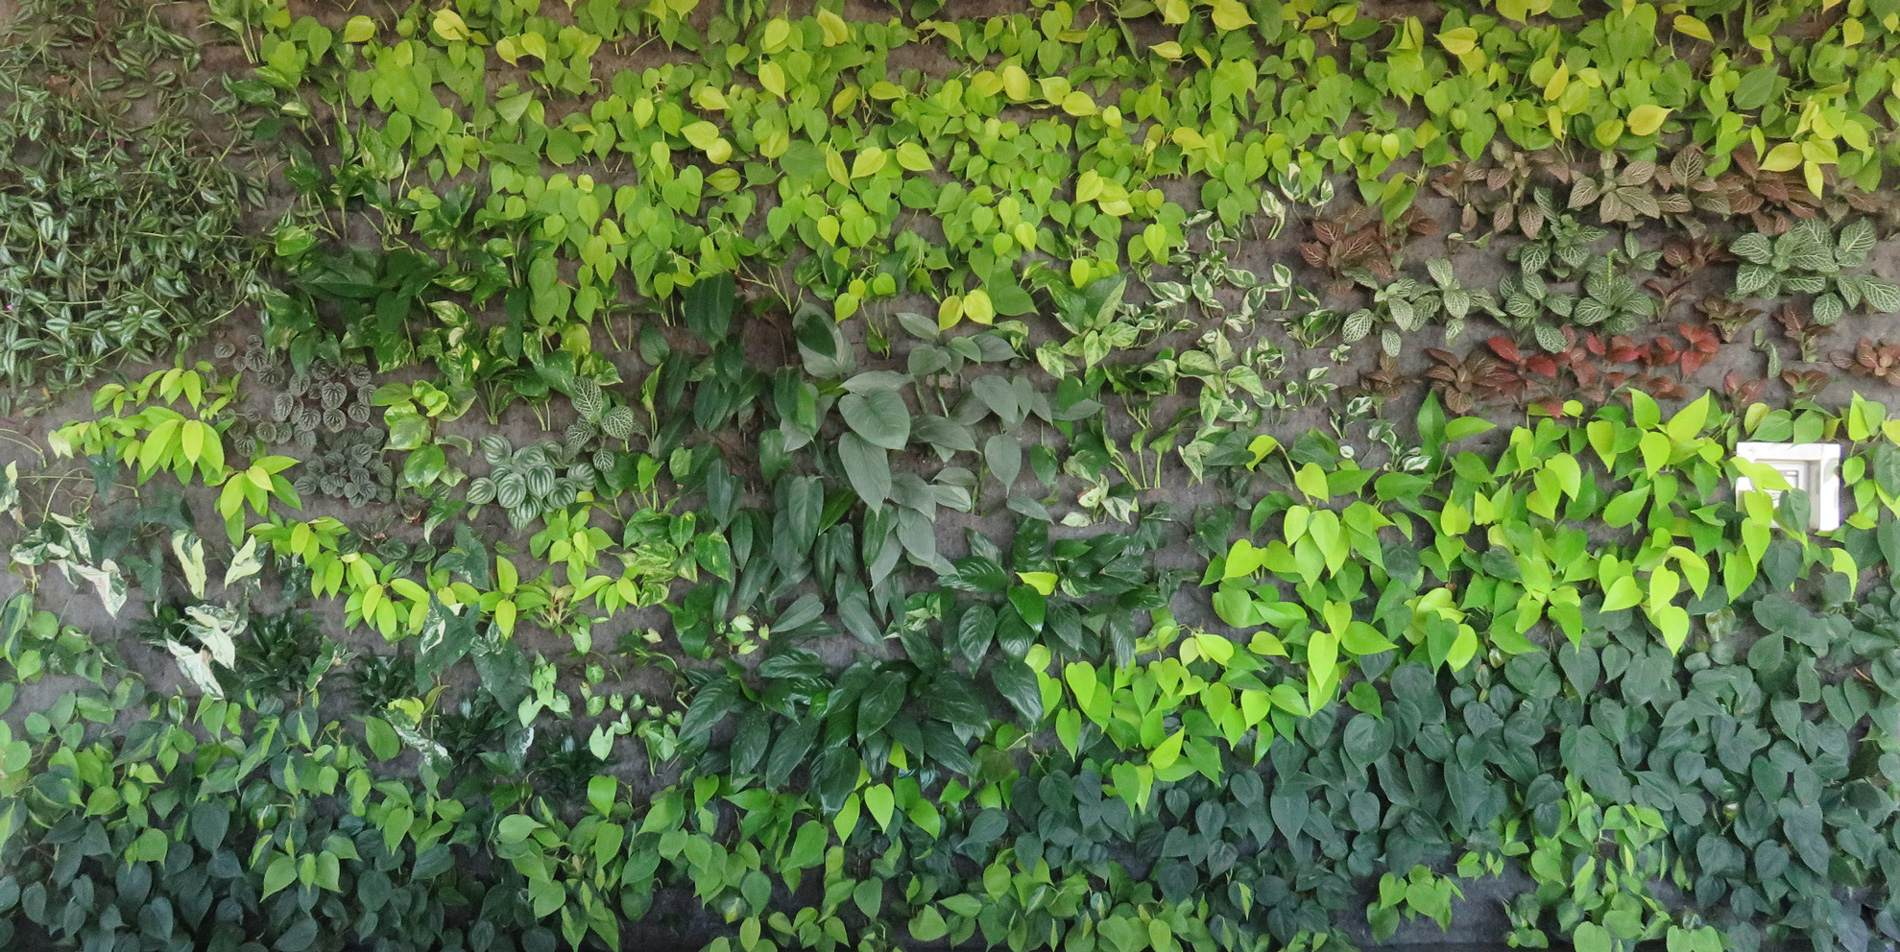
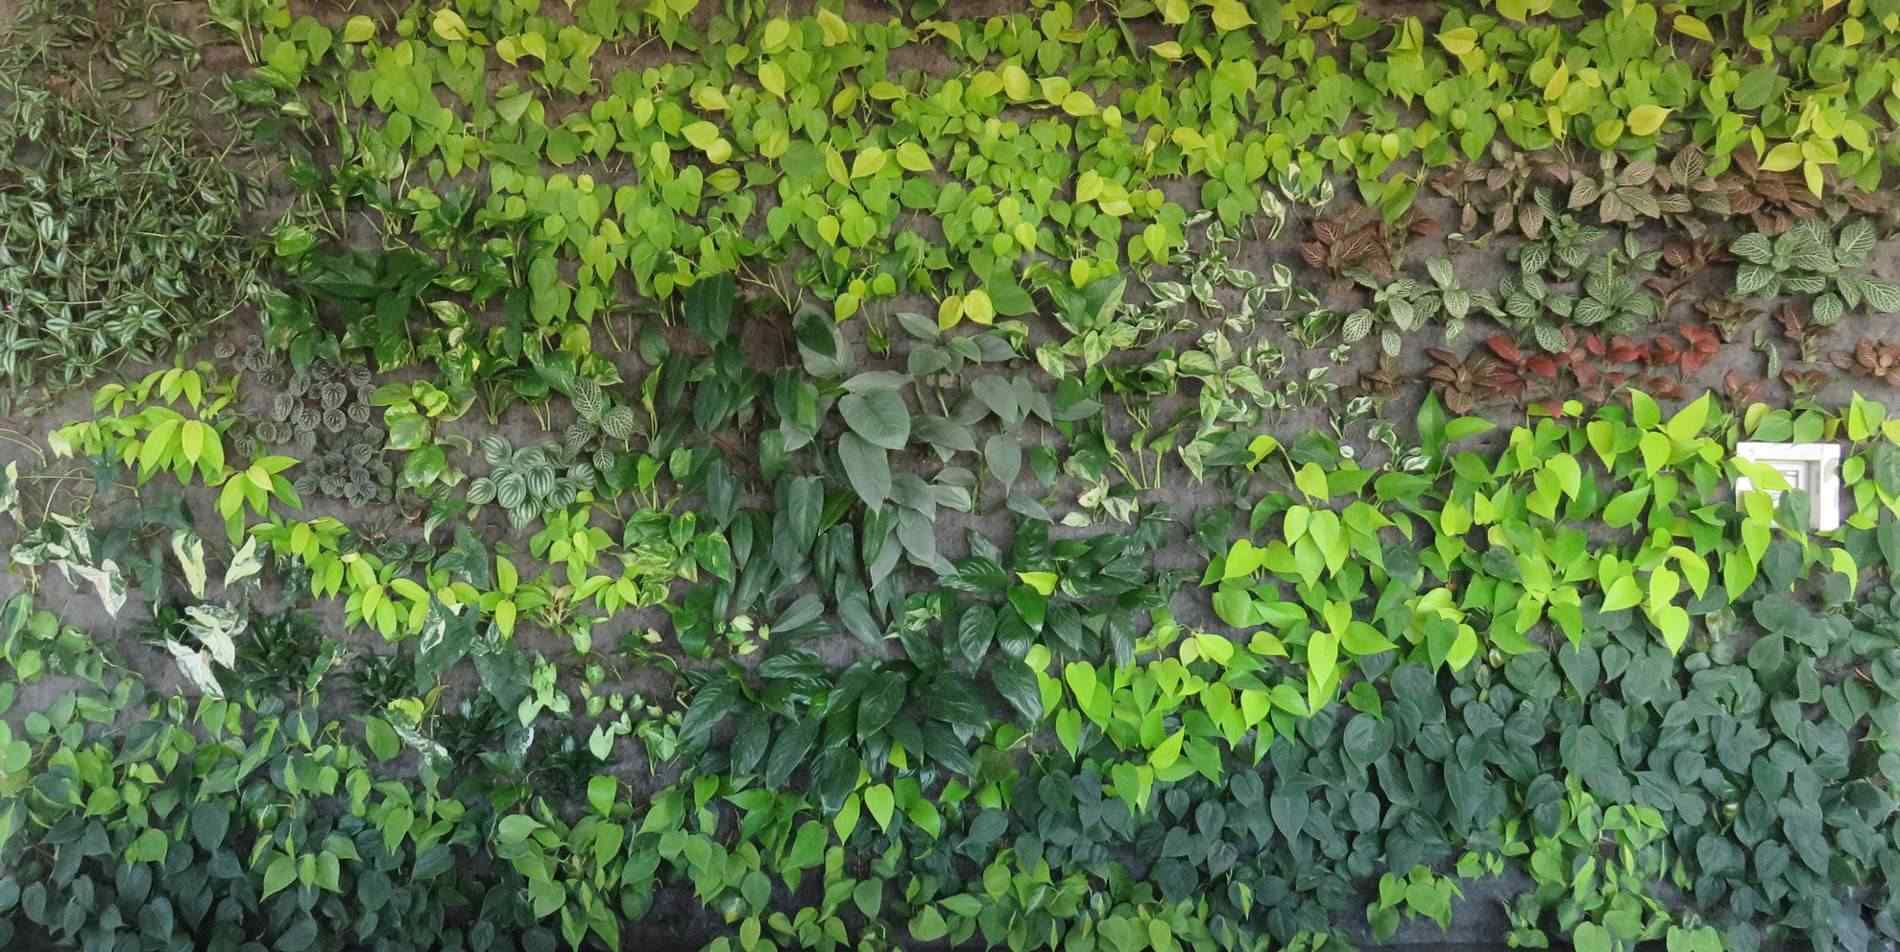
Compress DEFLATE y Especificar archivos Caché

diff --git a/index.html b/index.html
@@ -14,6 +14,59 @@
   <link href="assets/css/font-awesome.css" rel="stylesheet">
   <link href='https://fonts.googleapis.com/css?family=Droid+Sans' rel='stylesheet' type='text/css'>
   <title>NPK Arte Vegetal</title>
+  <style>
+    /*sección inicio********************************************************************************************/
+    #inicio {
+      position: relative;
+      min-height: 100vh;
+      background-color: #00a990;
+      background-image: url('img/background/fondob2.png');
+      background-size: cover;
+      background-position: center;
+      background-repeat: no-repeat;
+    }
+    #intro {
+      position: absolute;
+      z-index: 97;
+      top: 50%;
+      left: 50%;
+      transform: translate(-50%, -50%);
+      background-image: url('img/background/NPKsequence2.png');
+      background-size: cover;
+      background-repeat: no-repeat;
+      height: 320px;
+      width: 156px;
+    }
+    #logo {
+      position: absolute;
+      z-index: 97;
+      top: 50%;
+      left: 50%;
+      transform: translate(-50%, -50%);
+      height: 50vh;
+    }
+    .hi {
+        -webkit-animation: play 7s steps(95);
+           -moz-animation: play 7s steps(95);
+            -ms-animation: play 7s steps(95);
+             -o-animation: play 7s steps(95);
+                animation: play 7s steps(95);
+                animation-fill-mode: forwards;
+    }
+    @keyframes play {
+       100% { background-position: -14823px; }
+    }
+    
+    #bio {
+        height: 100vh;
+        background-color: #00a990;
+        background-image: url('img/background/bio.jpg');
+        background-size: cover;
+        background-position: center;
+        background-repeat: no-repeat;
+        padding: 4%;
+      }
+  </style>
 </head>
 <body>
   <div class="bs-example" id="nav">

diff --git a/css/index.css b/css/index.css
@@ -80,64 +80,9 @@ body {
   height: 50px;
 }
 
-/*sección inicio********************************************************************************************/
-#inicio {
-  position: relative;
-  min-height: 100vh;
-  background-color: #00a990;
-  background-image: url(../img/background/fondob2.png);
-  background-size: cover;
-  background-position: center;
-  background-repeat: no-repeat;
-}
-
-#logo {
-  position: absolute;
-  z-index: 97;
-  top: 50%;
-  left: 50%;
-  transform: translate(-50%, -50%);
-  height: 50vh;
-}
-
-
-#intro {
-  position: absolute;
-  z-index: 97;
-  top: 50%;
-  left: 50%;
-  transform: translate(-50%, -50%);
-  background-image: url('../img/background/NPKsequence2.png');
-  background-size: cover;
-  background-repeat: no-repeat;
-  height: 320px;
-  width: 156px;
-}
-
-.hi {
-    -webkit-animation: play 7s steps(95);
-       -moz-animation: play 7s steps(95);
-        -ms-animation: play 7s steps(95);
-         -o-animation: play 7s steps(95);
-            animation: play 7s steps(95);
-            animation-fill-mode: forwards;
-}
-
-@keyframes play {
-   100% { background-position: -14823px; }
-}
-
 /*sección BIO*******************************************************************************************/
 
-#bio {
-  height: 100vh;
-  background-color: #00a990;
-  background-image: url(../img/background/bio.jpg);
-  background-size: cover;
-  background-position: center;
-  background-repeat: no-repeat;
-  padding: 4%;
-}
+
 
 #equipo {
   background-color: rgba(0, 169, 146, 0.8);
